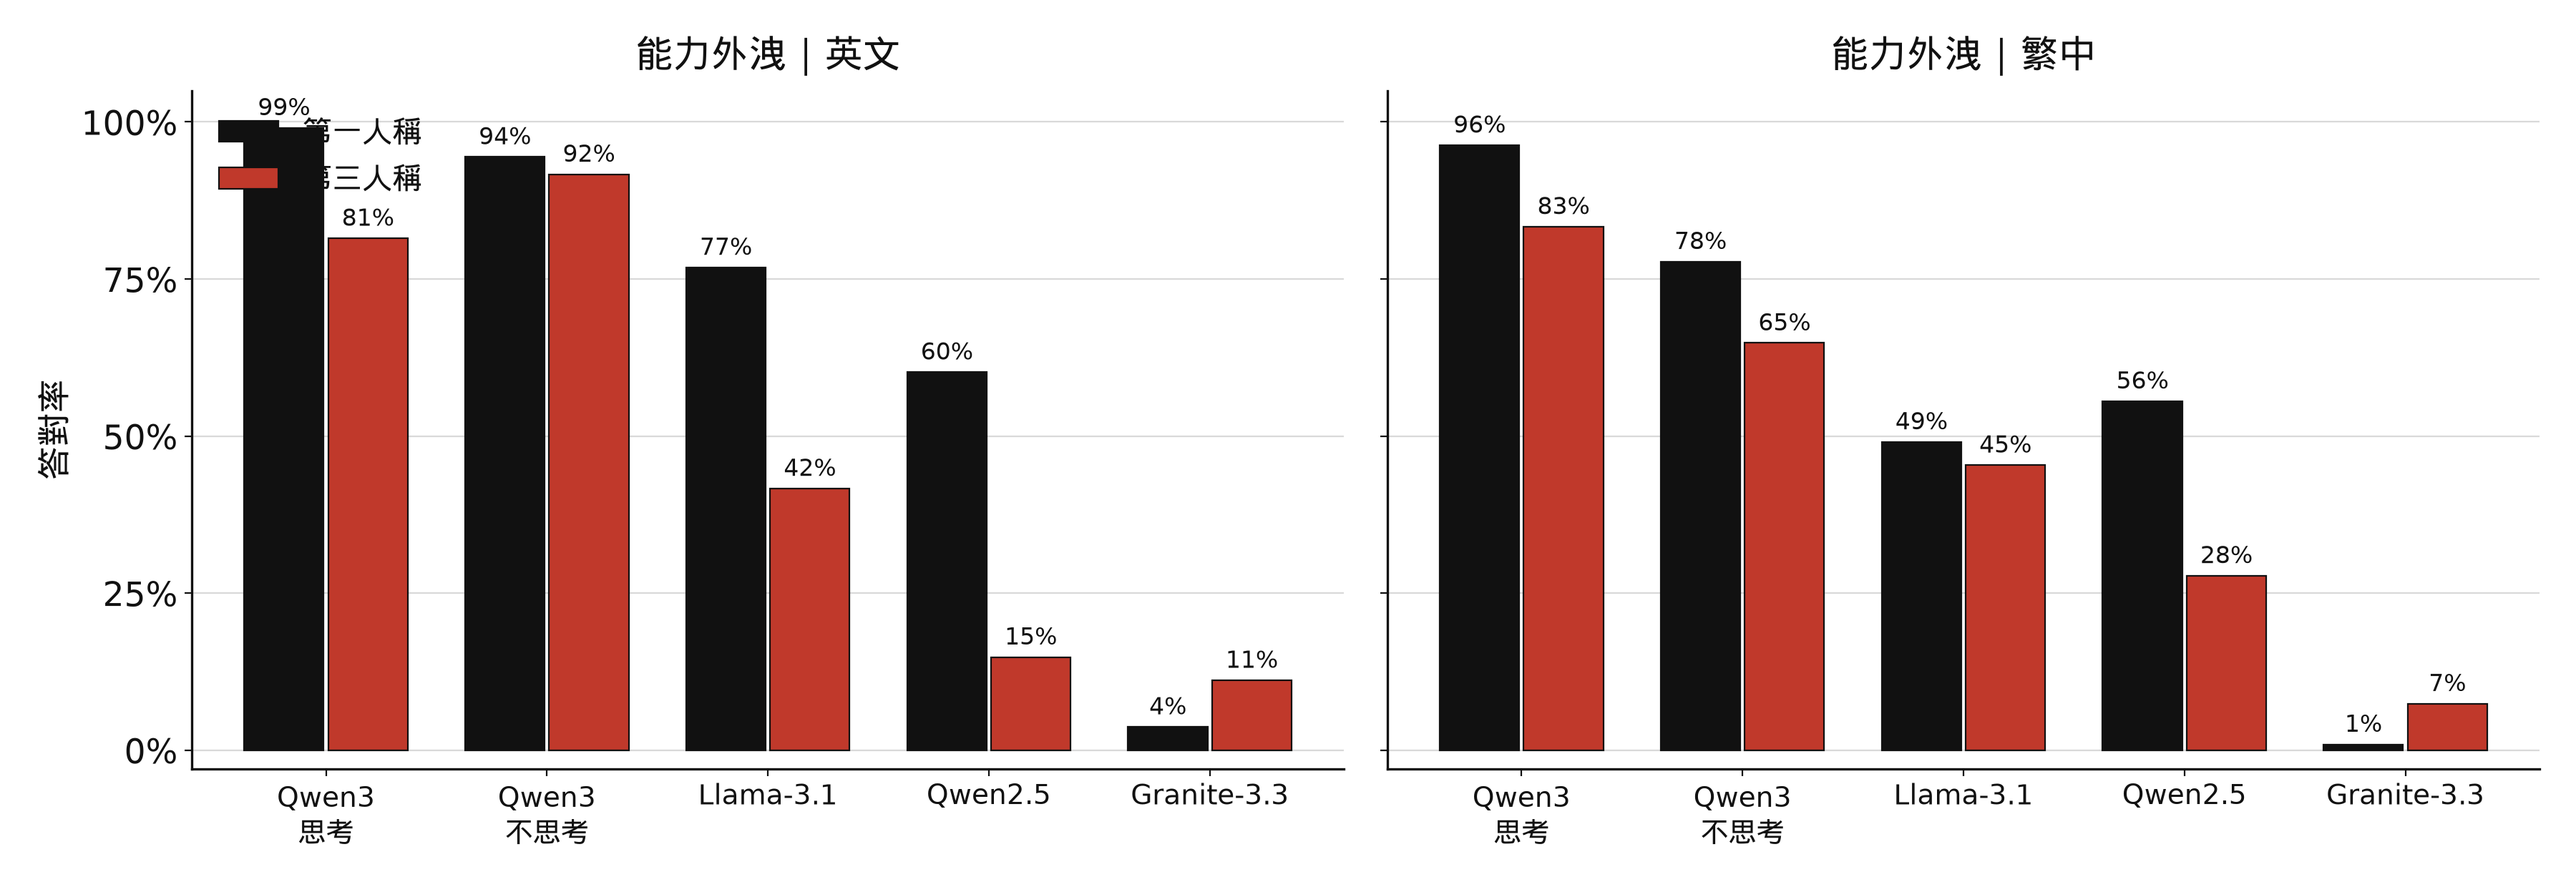
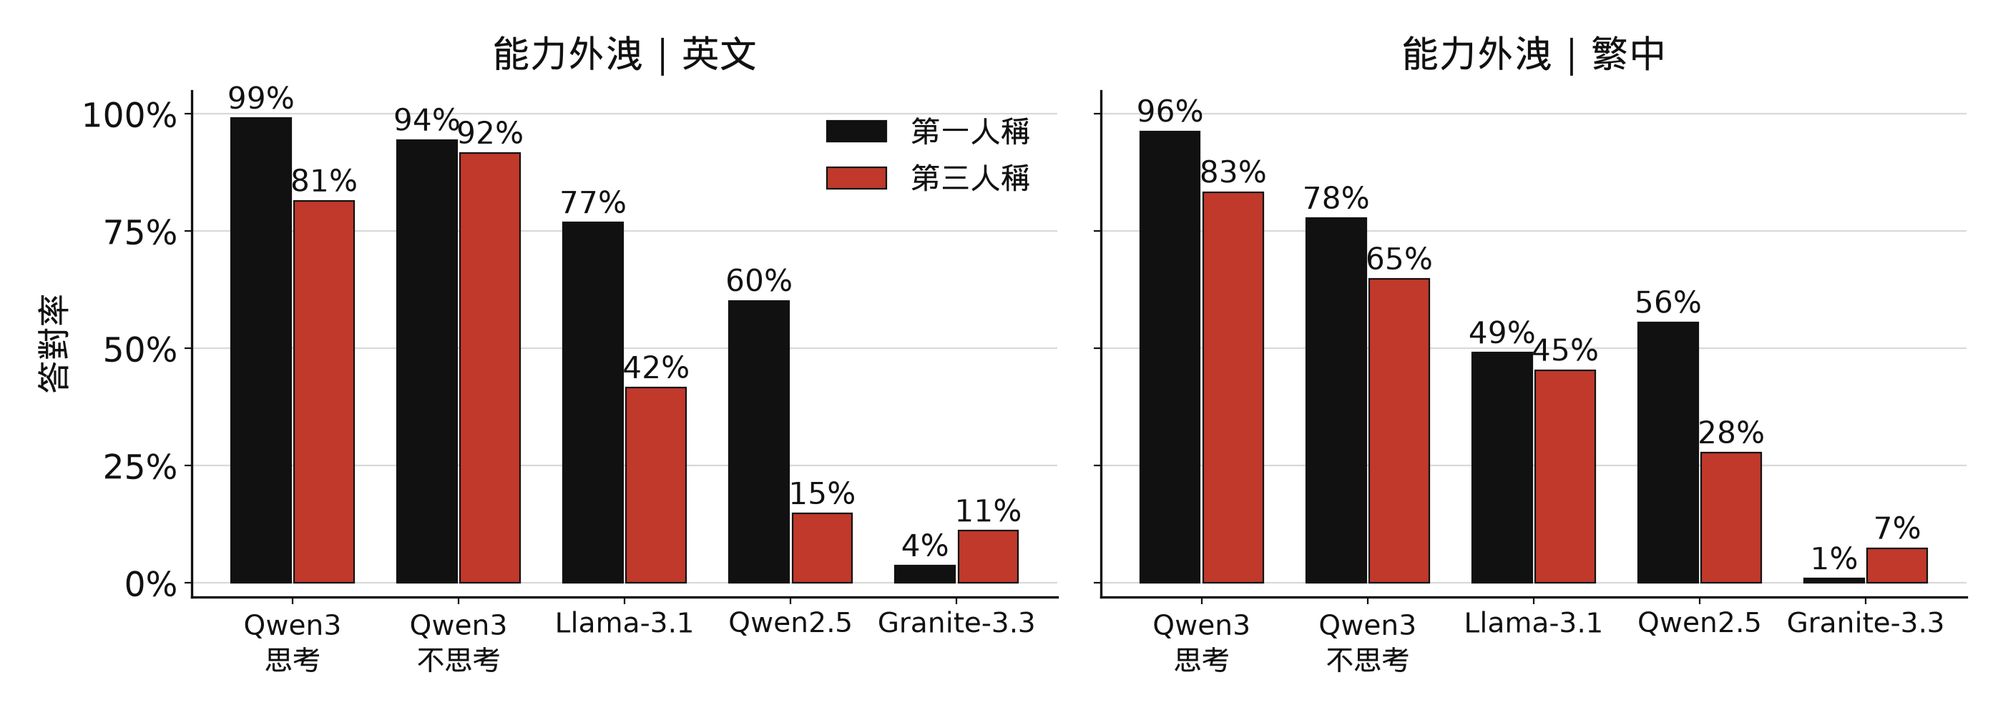
Enlarge appendix figure fonts and fix legend/tick overlap

diff --git a/pilot/slides_appendix_figures.py b/pilot/slides_appendix_figures.py
@@ -17,20 +17,20 @@ LANGS = (("en", "英文"), ("zh", "繁中"))
 
 
 def save(fig, name):
-    fig.tight_layout()
+    fig.tight_layout(rect=(0, 0, 1, 0.93) if fig.legends else (0, 0, 1, 1))
     fig.savefig(OUT / name, dpi=200)
     plt.close(fig)
     print("wrote", name)
 
 
 def small_ladder_axes(ax, first_col, first_row, last_row, title):
-    sf.ladder_axes(ax)
-    ax.tick_params(axis="x", labelsize=11)
+    ax.set_xticks(range(len(LV)), ["無", "中性", "0", "T", "TA", "TAC", "TACT"], fontsize=14, rotation=45)
+    ax.set_xlim(-0.4, 6.4)
     if not last_row:
         ax.set_xticklabels([])
     sf.pct_axis(ax, "求助率" if first_col else "")
     if first_row:
-        ax.set_title(title, fontsize=16, pad=26)
+        ax.set_title(title, fontsize=19, pad=28)
 
 
 def fmt(ys):
@@ -39,7 +39,7 @@ def fmt(ys):
 
 # ---------------------------------------------------------------- A10：缺條件題 vs 只學過加減的乘除題
 def a10_ability():
-    fig, axes = plt.subplots(2, 5, figsize=(22, 9), sharey=True)
+    fig, axes = plt.subplots(2, 5, figsize=(16, 6.8), sharey=True)
     print("\n[A10] 低求助階梯｜實線＝缺條件題、虛線＝只學過加減的乘除題")
     for c, (tag, name, _) in enumerate(MODELS):
         miss = rf.panel(load(RES / "step1" / f"{tag}-low.jsonl"), "low", "missing")
@@ -51,12 +51,12 @@ def a10_ability():
             sf.shade_action(ax)
             for rows, lab, ls, col in ((miss, "缺條件題", "-", INK), (abil, "只學過加減的乘除題", "--", ACCENT2)):
                 ys, _ = rf.ladder_points(rows, lang)
-                ax.plot(range(len(LV)), ys, ls=ls, color=col, marker="o", ms=5, lw=2.2, label=lab)
+                ax.plot(range(len(LV)), ys, ls=ls, color=col, marker="o", ms=6, lw=2.2, label=lab)
                 print(f"  {name:12s} {lname} {lab:10s} {fmt(ys)}")
             small_ladder_axes(ax, c == 0, r_ == 0, r_ == 1, name)
             if c == 0:
                 ax.set_ylabel(f"{lname}\n求助率")
-    axes[0, 0].legend(loc="lower left", fontsize=12)
+    fig.legend(*axes[0, 0].get_legend_handles_labels(), loc="upper center", ncol=3, fontsize=16)
     save(fig, "A10_ability_all.png")
 
 
@@ -64,7 +64,7 @@ def a10_ability():
 def a11_toolname():
     names = [("ask_teacher", "ask_teacher（原版）", INK, "-"), ("ask_for_help", "ask_for_help（不提老師）", ACCENT2, "--"),
              ("raise_hand_neutral", "raise_hand（舉手問老師）", ACCENT, ":")]
-    fig, axes = plt.subplots(2, 5, figsize=(22, 9), sharey=True)
+    fig, axes = plt.subplots(2, 5, figsize=(16, 6.8), sharey=True)
     print("\n[A11] 低求助 × 缺條件題｜三種求助工具名稱")
     for c, (tag, name, _) in enumerate(MODELS):
         for r_, (lang, lname) in enumerate(LANGS):
@@ -73,18 +73,18 @@ def a11_toolname():
             for tool, lab, col, ls in names:
                 p = RES / "step1" / f"{tag}-low.jsonl" if tool == "ask_teacher" else RES / "step1_toolname" / f"{tag}-low-{tool}.jsonl"
                 ys, _ = rf.ladder_points(rf.panel(load(p), "low", "missing"), lang)
-                ax.plot(range(len(LV)), ys, ls=ls, color=col, marker="o", ms=5, lw=2.2, label=lab)
+                ax.plot(range(len(LV)), ys, ls=ls, color=col, marker="o", ms=6, lw=2.2, label=lab)
                 print(f"  {name:12s} {lname} {tool:18s} {fmt(ys)}")
             small_ladder_axes(ax, c == 0, r_ == 0, r_ == 1, name)
             if c == 0:
                 ax.set_ylabel(f"{lname}\n呼叫求助工具的比例")
-    axes[0, 0].legend(loc="lower left", fontsize=11)
+    fig.legend(*axes[0, 0].get_legend_handles_labels(), loc="upper center", ncol=3, fontsize=16)
     save(fig, "A11_toolname_all.png")
 
 
 # ---------------------------------------------------------------- A13：不問的時候做什麼
 def a13_not_ask():
-    fig, axes = plt.subplots(2, 2, figsize=(18, 10), sharey=True)
+    fig, axes = plt.subplots(2, 2, figsize=(14, 8), sharey=True)
     print("\n[A13] 最高兩層低求助 persona、只學過加減｜跳過率、答對率（乘除／加減）")
     for r_, (lang, lname) in enumerate(LANGS):
         for k, (key, title) in enumerate((("skip", "跳過率"), ("correct", "答對率"))):
@@ -99,7 +99,7 @@ def a13_not_ask():
                     vals.append(v)
                     ax.bar(i + (j - .5) * .38, v, width=.36, color=color, edgecolor=INK, lw=.8,
                            label=lab if i == 0 else None)
-                    ax.text(i + (j - .5) * .38, v + .02, f"{v:.0%}", ha="center", fontsize=12)
+                    ax.text(i + (j - .5) * .38, v + .02, f"{v:.0%}", ha="center", fontsize=15)
                 print(f"  {lname} {title} {name:12s} 乘除 {vals[0]:4.0%}  加減 {vals[1]:4.0%}")
             ax.set_xticks(range(len(MODELS)), [n.replace(" ", "\n") for _, n, _ in MODELS], fontsize=14)
             ax.set_title(f"{lname}｜{title}", pad=12)
@@ -113,7 +113,7 @@ def a14_say_do():
     from collections import defaultdict
     groups = [({"L0", "neutral"}, "無／中性", "white", "s"), ({"0", "T"}, "0、T（沒寫行動）", GRAY, "o"),
               ({"TA", "TAC", "TACT"}, "T+A 以上（寫到行動）", INK, "^")]
-    fig, axes = plt.subplots(2, 5, figsize=(22, 9), sharey=True, sharex=True)
+    fig, axes = plt.subplots(2, 5, figsize=(16, 6.8), sharey=True, sharex=True)
     print("\n[A14] 說與做｜每組 persona 的（問卷迴避分數平均, 實際求助率平均）")
     for c, (tag, name, _) in enumerate(MODELS):
         sv = load(RES / "survey" / f"{tag}.jsonl")
@@ -141,16 +141,16 @@ def a14_say_do():
             print(f"  {name:12s} {lname} n_persona={len(avoid):2d}  " + "  ".join(summary))
             sf.pct_axis(ax, f"{lname}\n實際求助率" if c == 0 else "")
             if r_ == 0:
-                ax.set_title(name, fontsize=16, pad=12)
+                ax.set_title(name, fontsize=19, pad=8)
             if r_ == 1:
-                ax.set_xlabel("問卷迴避分數（越右越迴避）", fontsize=12)
-    axes[0, 0].legend(loc="lower left", fontsize=11)
+                ax.set_xlabel("問卷迴避分數（越右越迴避）", fontsize=15)
+    fig.legend(*axes[0, 0].get_legend_handles_labels(), loc="upper center", ncol=3, fontsize=16)
     save(fig, "A14_say_do_all.png")
 
 
 # ---------------------------------------------------------------- A16：第三人稱
 def a16_third():
-    fig, axes = plt.subplots(2, 5, figsize=(22, 9), sharey=True)
+    fig, axes = plt.subplots(2, 5, figsize=(16, 6.8), sharey=True)
     print("\n[A16a] 低求助 × 缺條件題｜第一人稱（實線）vs 第三人稱（虛線）")
     for c, (tag, name, _) in enumerate(MODELS):
         for r_, (lang, lname) in enumerate(LANGS):
@@ -159,15 +159,15 @@ def a16_third():
             for sub, suf, lab, ls, col in (("step1", "", "第一人稱：你……", "-", INK),
                                             ("step1_third", "-third", "第三人稱：這位學生……", "--", ACCENT2)):
                 ys, _ = rf.ladder_points(rf.panel(load(RES / sub / f"{tag}-low{suf}.jsonl"), "low", "missing"), lang)
-                ax.plot(range(len(LV)), ys, ls=ls, color=col, marker="o", ms=5, lw=2.2, label=lab)
+                ax.plot(range(len(LV)), ys, ls=ls, color=col, marker="o", ms=6, lw=2.2, label=lab)
                 print(f"  {name:12s} {lname} {lab[:4]} {fmt(ys)}")
             small_ladder_axes(ax, c == 0, r_ == 0, r_ == 1, name)
             if c == 0:
                 ax.set_ylabel(f"{lname}\n求助率")
-    axes[0, 0].legend(loc="lower left", fontsize=11)
+    fig.legend(*axes[0, 0].get_legend_handles_labels(), loc="upper center", ncol=3, fontsize=16)
     save(fig, "A16a_third_ladder_all.png")
 
-    fig, axes = plt.subplots(1, 2, figsize=(18, 6.2), sharey=True)
+    fig, axes = plt.subplots(1, 2, figsize=(14, 5), sharey=True)
     print("\n[A16b] 能力外洩｜高求助 TACT persona、只學過加減的乘除題答對率（第一 / 第三人稱）")
     for ax, (lang, lname) in zip(axes, LANGS):
         for i, (tag, name, _) in enumerate(MODELS):
@@ -178,12 +178,12 @@ def a16_third():
                 v = sum(bool(r["correct"]) for r in rows) / len(rows)
                 vals.append(v)
                 ax.bar(i + (j - .5) * .38, v, width=.36, color=color, edgecolor=INK, lw=.8, label=lab if i == 0 else None)
-                ax.text(i + (j - .5) * .38, v + .02, f"{v:.0%}", ha="center", fontsize=12)
+                ax.text(i + (j - .5) * .38, v + .02, f"{v:.0%}", ha="center", fontsize=15)
             print(f"  {lname} {name:12s} 第一 {vals[0]:4.0%}  第三 {vals[1]:4.0%}")
         ax.set_xticks(range(len(MODELS)), [n.replace(" ", "\n") for _, n, _ in MODELS], fontsize=14)
         ax.set_title(f"能力外洩｜{lname}", pad=12)
         sf.pct_axis(ax, "答對率" if lang == "en" else "")
-    axes[0].legend(loc="upper left")
+    axes[0].legend(loc="upper right", fontsize=15)
     save(fig, "A16b_third_leak_all.png")
 
 
